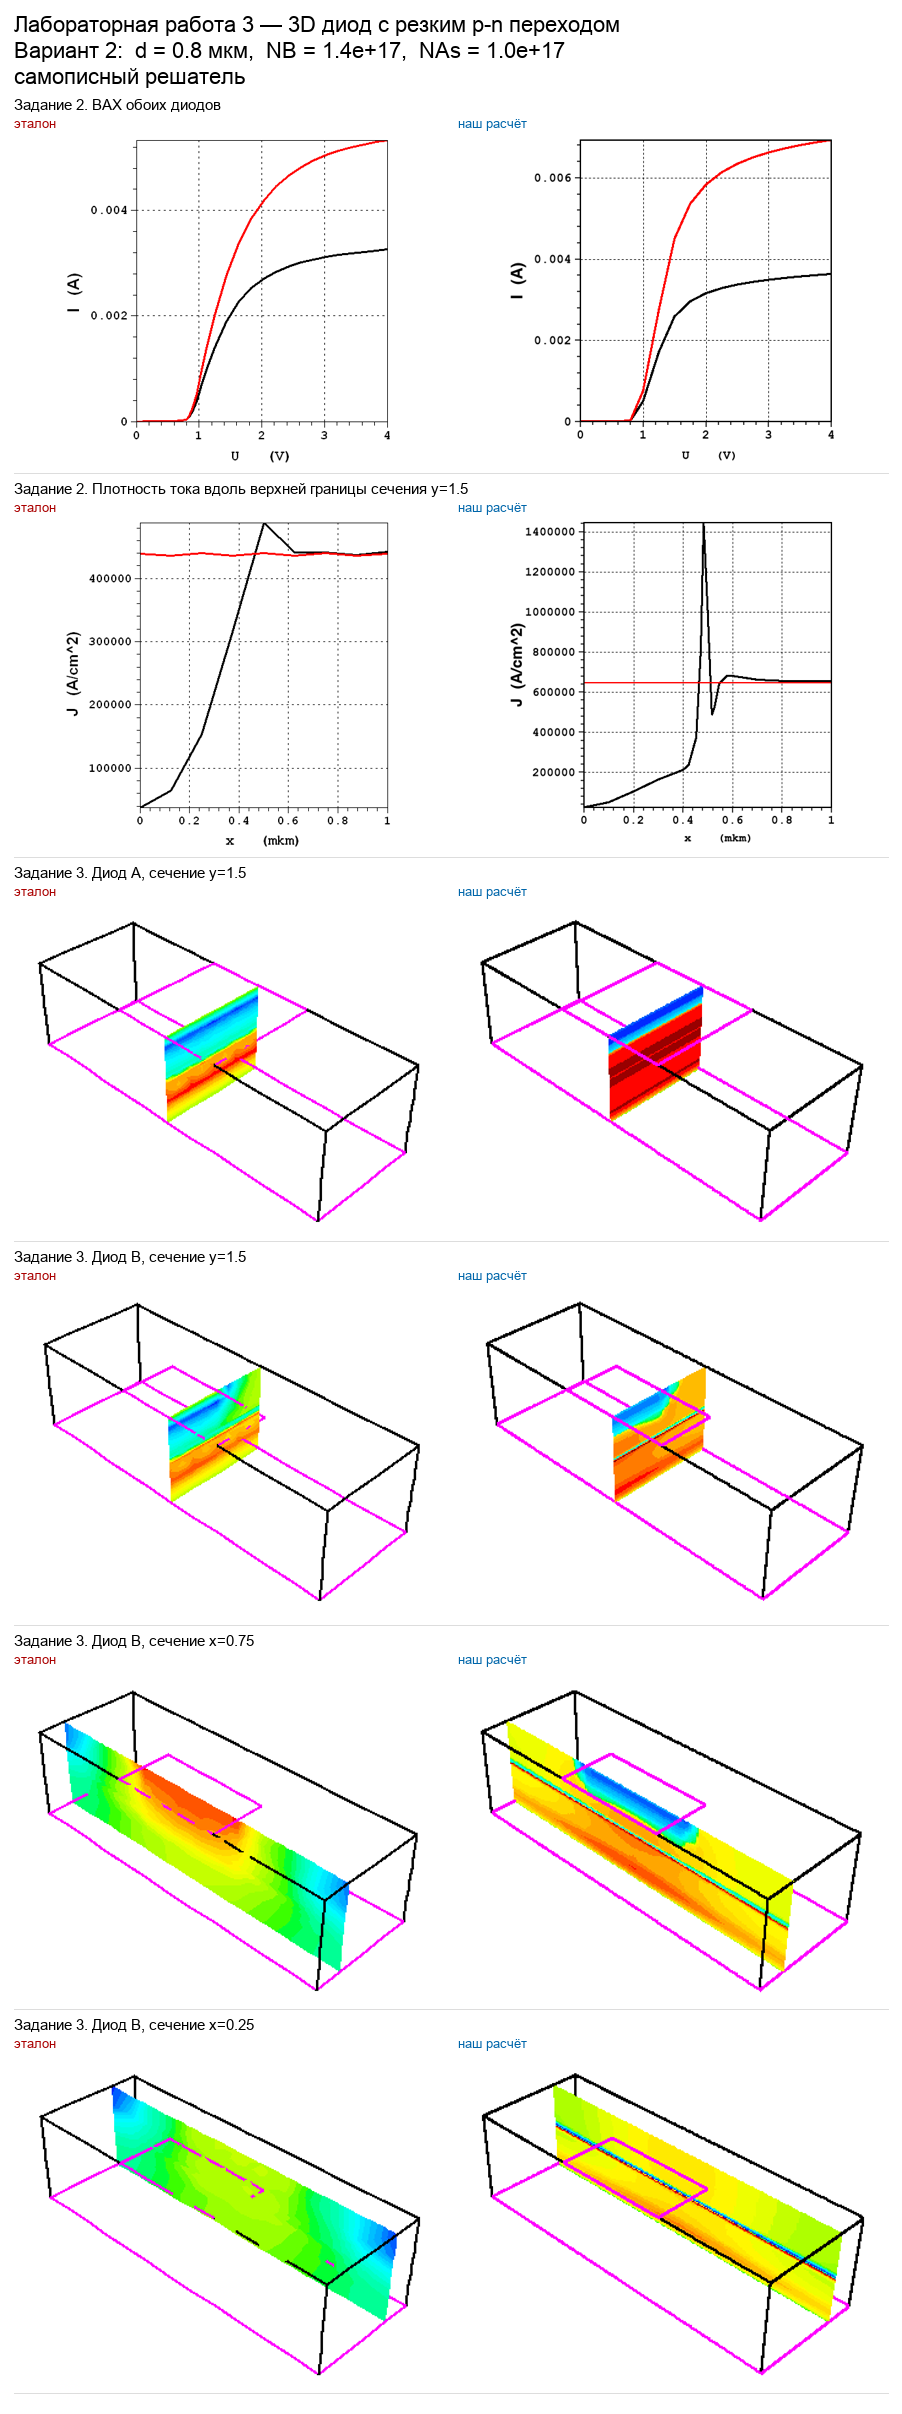
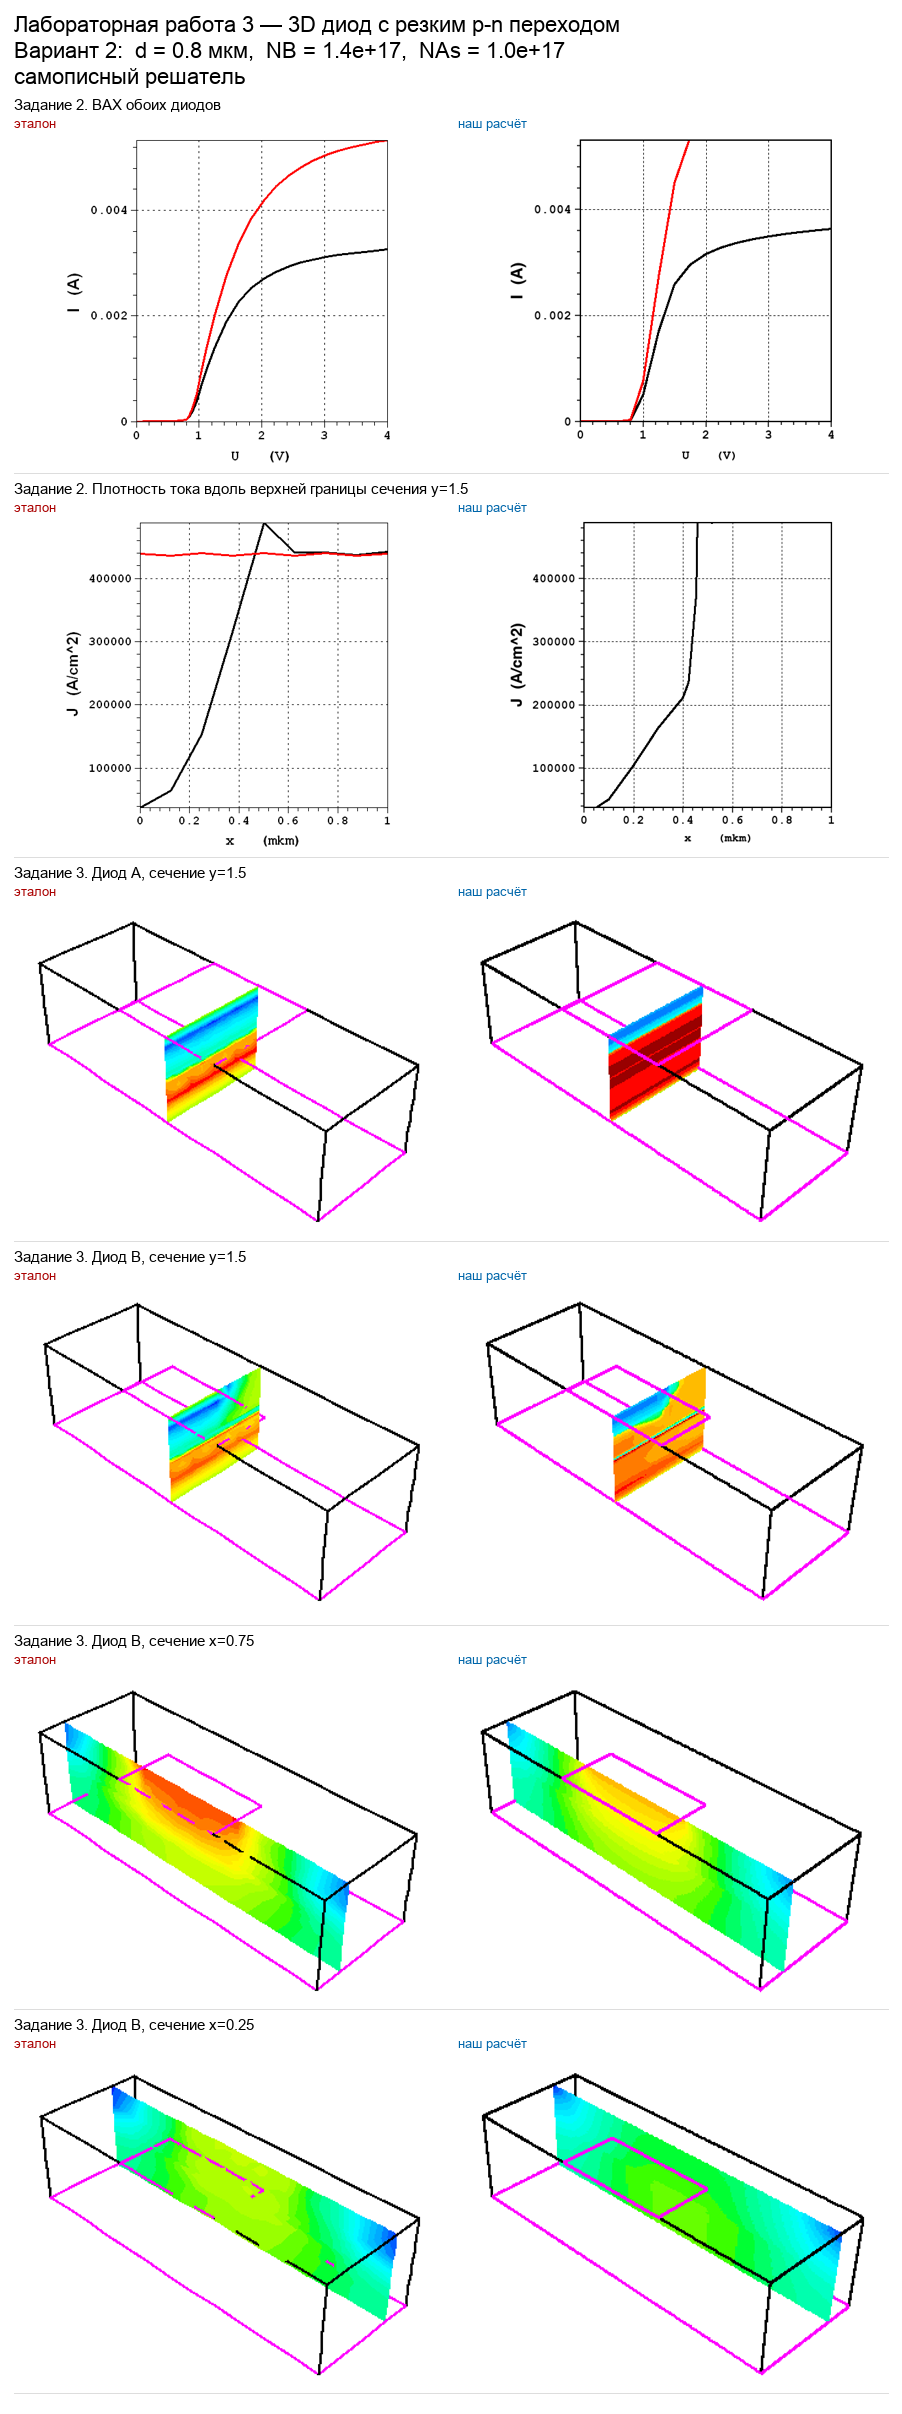
Лаба 3: шкалы как у эталона — пределы осей графиков, общая цветовая шкала, lg|J| на продольных сечениях
Эталонные сечения проверены попиксельно: поперечные y = 1.5 — заряд в ареасинусе,
продольные x = 0.75 и x = 0.25 — lg|J| с диапазоном по всему прибору
(расхождение 0.5–0.6 полосы из 31).

diff --git a/tools/ise3d.py b/tools/ise3d.py
@@ -21,8 +21,9 @@ NB = len(ise.RGB)                      # 31 полоса
 ZSTRETCH = 1.45                        # по Oz вытянуто, иначе прибор нечитаемо плоский
 
 
-def _colors_on_grid(grid, vals, nu=160, nv=96):
-    """Поле с треугольной сетки на регулярную, уже в виде цветов полос."""
+def _colors_on_grid(grid, vals, nu=160, nv=96, lo=None, hi=None):
+    """Поле с треугольной сетки на регулярную, уже в виде цветов полос.
+    lo, hi — границы шкалы (в ареасинусе); по умолчанию — min..max самого сечения."""
     v = grid["vertices"]
     tri = Triangulation(v[:, 0], v[:, 1], dfise.triangles(grid))
     f = LinearTriInterpolator(tri, ise._t(vals))       # интерполируем преобразованное
@@ -30,7 +31,8 @@ def _colors_on_grid(grid, vals, nu=160, nv=96):
     w = np.linspace(v[:, 1].min(), v[:, 1].max(), nv)
     U, W = np.meshgrid(u, w)
     T = f(U, W)
-    lo, hi = float(ise._t(vals).min()), float(ise._t(vals).max())
+    lo = float(ise._t(vals).min()) if lo is None else lo
+    hi = float(ise._t(vals).max()) if hi is None else hi
     if hi <= lo:
         hi = lo + 1.0
     k = np.clip(((np.ma.filled(T, lo) - lo) / (hi - lo) * NB).astype(int), 0, NB - 1)
@@ -277,9 +279,11 @@ def structure_ref(path, verts, tris, dop, LX, LY, LZ, anode, cam, size):
     return path
 
 
-def bands_rgba(F, lo=None, hi=None):
-    """Поле -> цвета 31 полосы в шкале ареасинуса (как у picasso), по min..max поля."""
-    t = ise._t(F)
+def bands_rgba(F, lo=None, hi=None, transform=True):
+    """Поле -> цвета 31 полосы, по умолчанию в шкале ареасинуса (как у picasso).
+    lo, hi — границы шкалы в преобразованных величинах (для общей шкалы на весь прибор);
+    transform=False — поле уже в нужной шкале (например, lg|J|)."""
+    t = ise._t(F) if transform else np.asarray(F, float)
     lo = float(np.nanmin(t)) if lo is None else lo
     hi = float(np.nanmax(t)) if hi is None else hi
     if hi <= lo:
@@ -333,10 +337,10 @@ def cut_ref(path, P3, rgba, kind, value, LX, LY, LZ, anode, cam, size):
     return path
 
 
-def plane_from_ise_cut(grid, vals, kind, value, nu=160, nw=96):
+def plane_from_ise_cut(grid, vals, kind, value, nu=160, nw=96, lo=None, hi=None):
     """Сечение ISE (dfisetools -cut) -> точки плоскости в координатах прибора и цвета.
     У сечений поперёк прибора первая координата сечения — это -x, вдоль — y."""
-    U, W, rgba = _colors_on_grid(grid, vals, nu=nu, nv=nw)
+    U, W, rgba = _colors_on_grid(grid, vals, nu=nu, nv=nw, lo=lo, hi=hi)
     if kind == "y":
         P3 = np.stack([-U, np.full_like(U, value), W], -1)
     else:

diff --git a/tools/py3d_plots.py b/tools/py3d_plots.py
@@ -293,3 +293,51 @@ def devsim_j_top_abs(path_npz, LZ=0.8, y=1.5):
     sel = sel[np.argsort(r[sel, 0])]
     J = devsim_j_vector(zd, sel)
     return r[sel, 0], np.linalg.norm(J, axis=1), J
+
+
+# ------------------------------------------------ поля для сечений в шкале эталона
+def j_abs_tensor(z):
+    """Самописный решатель: |J| во всех узлах тензорной сетки (потоки по рёбрам x, y, z, средние по узлу)."""
+    import dd3d
+    psi, n, p, C = z["psi"], z["n"], z["p"], z["C"]
+    axes = (z["x"], z["y"], z["z"])
+    comps = []
+    for ax in range(3):
+        sl0 = [slice(None)] * 3; sl1 = [slice(None)] * 3
+        sl0[ax] = slice(0, -1); sl1[ax] = slice(1, None)
+        a, b = tuple(sl0), tuple(sl1)
+        h = np.diff(axes[ax]).reshape([-1 if i == ax else 1 for i in range(3)])
+        Nt = 0.5 * (np.abs(C[a]) + np.abs(C[b]))
+        e = _sg(psi[a], psi[b], n[a], n[b], p[a], p[b], Nt, h)        # на рёбрах
+        node = np.zeros_like(psi); cnt = np.zeros_like(psi)
+        node[a] += e; cnt[a] += 1; node[b] += e; cnt[b] += 1
+        comps.append(node / cnt)
+    return np.sqrt(sum(c ** 2 for c in comps))
+
+
+def cut_plane_field(z, F3, kind, value, fine=5):
+    """Срез произвольного поля F3[x, y, z] тензорной сетки (как cut_plane, но не только заряд)."""
+    if kind == "y":
+        j = int(np.argmin(np.abs(z["y"] - value * 1e-4)))
+        u, w, F = z["x"] * 1e4, z["z"] * 1e4, F3[:, j, :]
+    else:
+        j = int(np.argmin(np.abs(z["x"] - value * 1e-4)))
+        u, w, F = z["y"] * 1e4, z["z"] * 1e4, F3[j, :, :]
+    if fine > 1:
+        from scipy.interpolate import RegularGridInterpolator
+        f = RegularGridInterpolator((u, w), F, method="linear")
+        u2 = np.linspace(u[0], u[-1], len(u) * fine); w2 = np.linspace(w[0], w[-1], len(w) * fine)
+        U, W = np.meshgrid(u2, w2, indexing="ij")
+        F = f(np.stack([U.ravel(), W.ravel()], axis=1)).reshape(U.shape); u, w = u2, w2
+    return u, w, F
+
+
+def devsim_plane(zd, vals, kind, value, nu=120, nw=96):
+    """DEVSIM: узловые значения vals на регулярную решётку плоскости (по тетраэдрам сетки)."""
+    pts = np.stack([zd["x"], zd["y"], zd["z"]], axis=1) * 1e4
+    u = np.linspace(pts[:, 0].min(), pts[:, 0].max(), nu) if kind == "y" else \
+        np.linspace(pts[:, 1].min(), pts[:, 1].max(), nu)
+    w = np.linspace(pts[:, 2].min(), pts[:, 2].max(), nw)
+    U, W = np.meshgrid(u, w, indexing="ij")
+    P = np.stack([U, np.full_like(U, value), W], -1) if kind == "y" else np.stack([np.full_like(U, value), U, W], -1)
+    return u, w, tet_interp(zd, vals, P.reshape(-1, 3)).reshape(U.shape)
